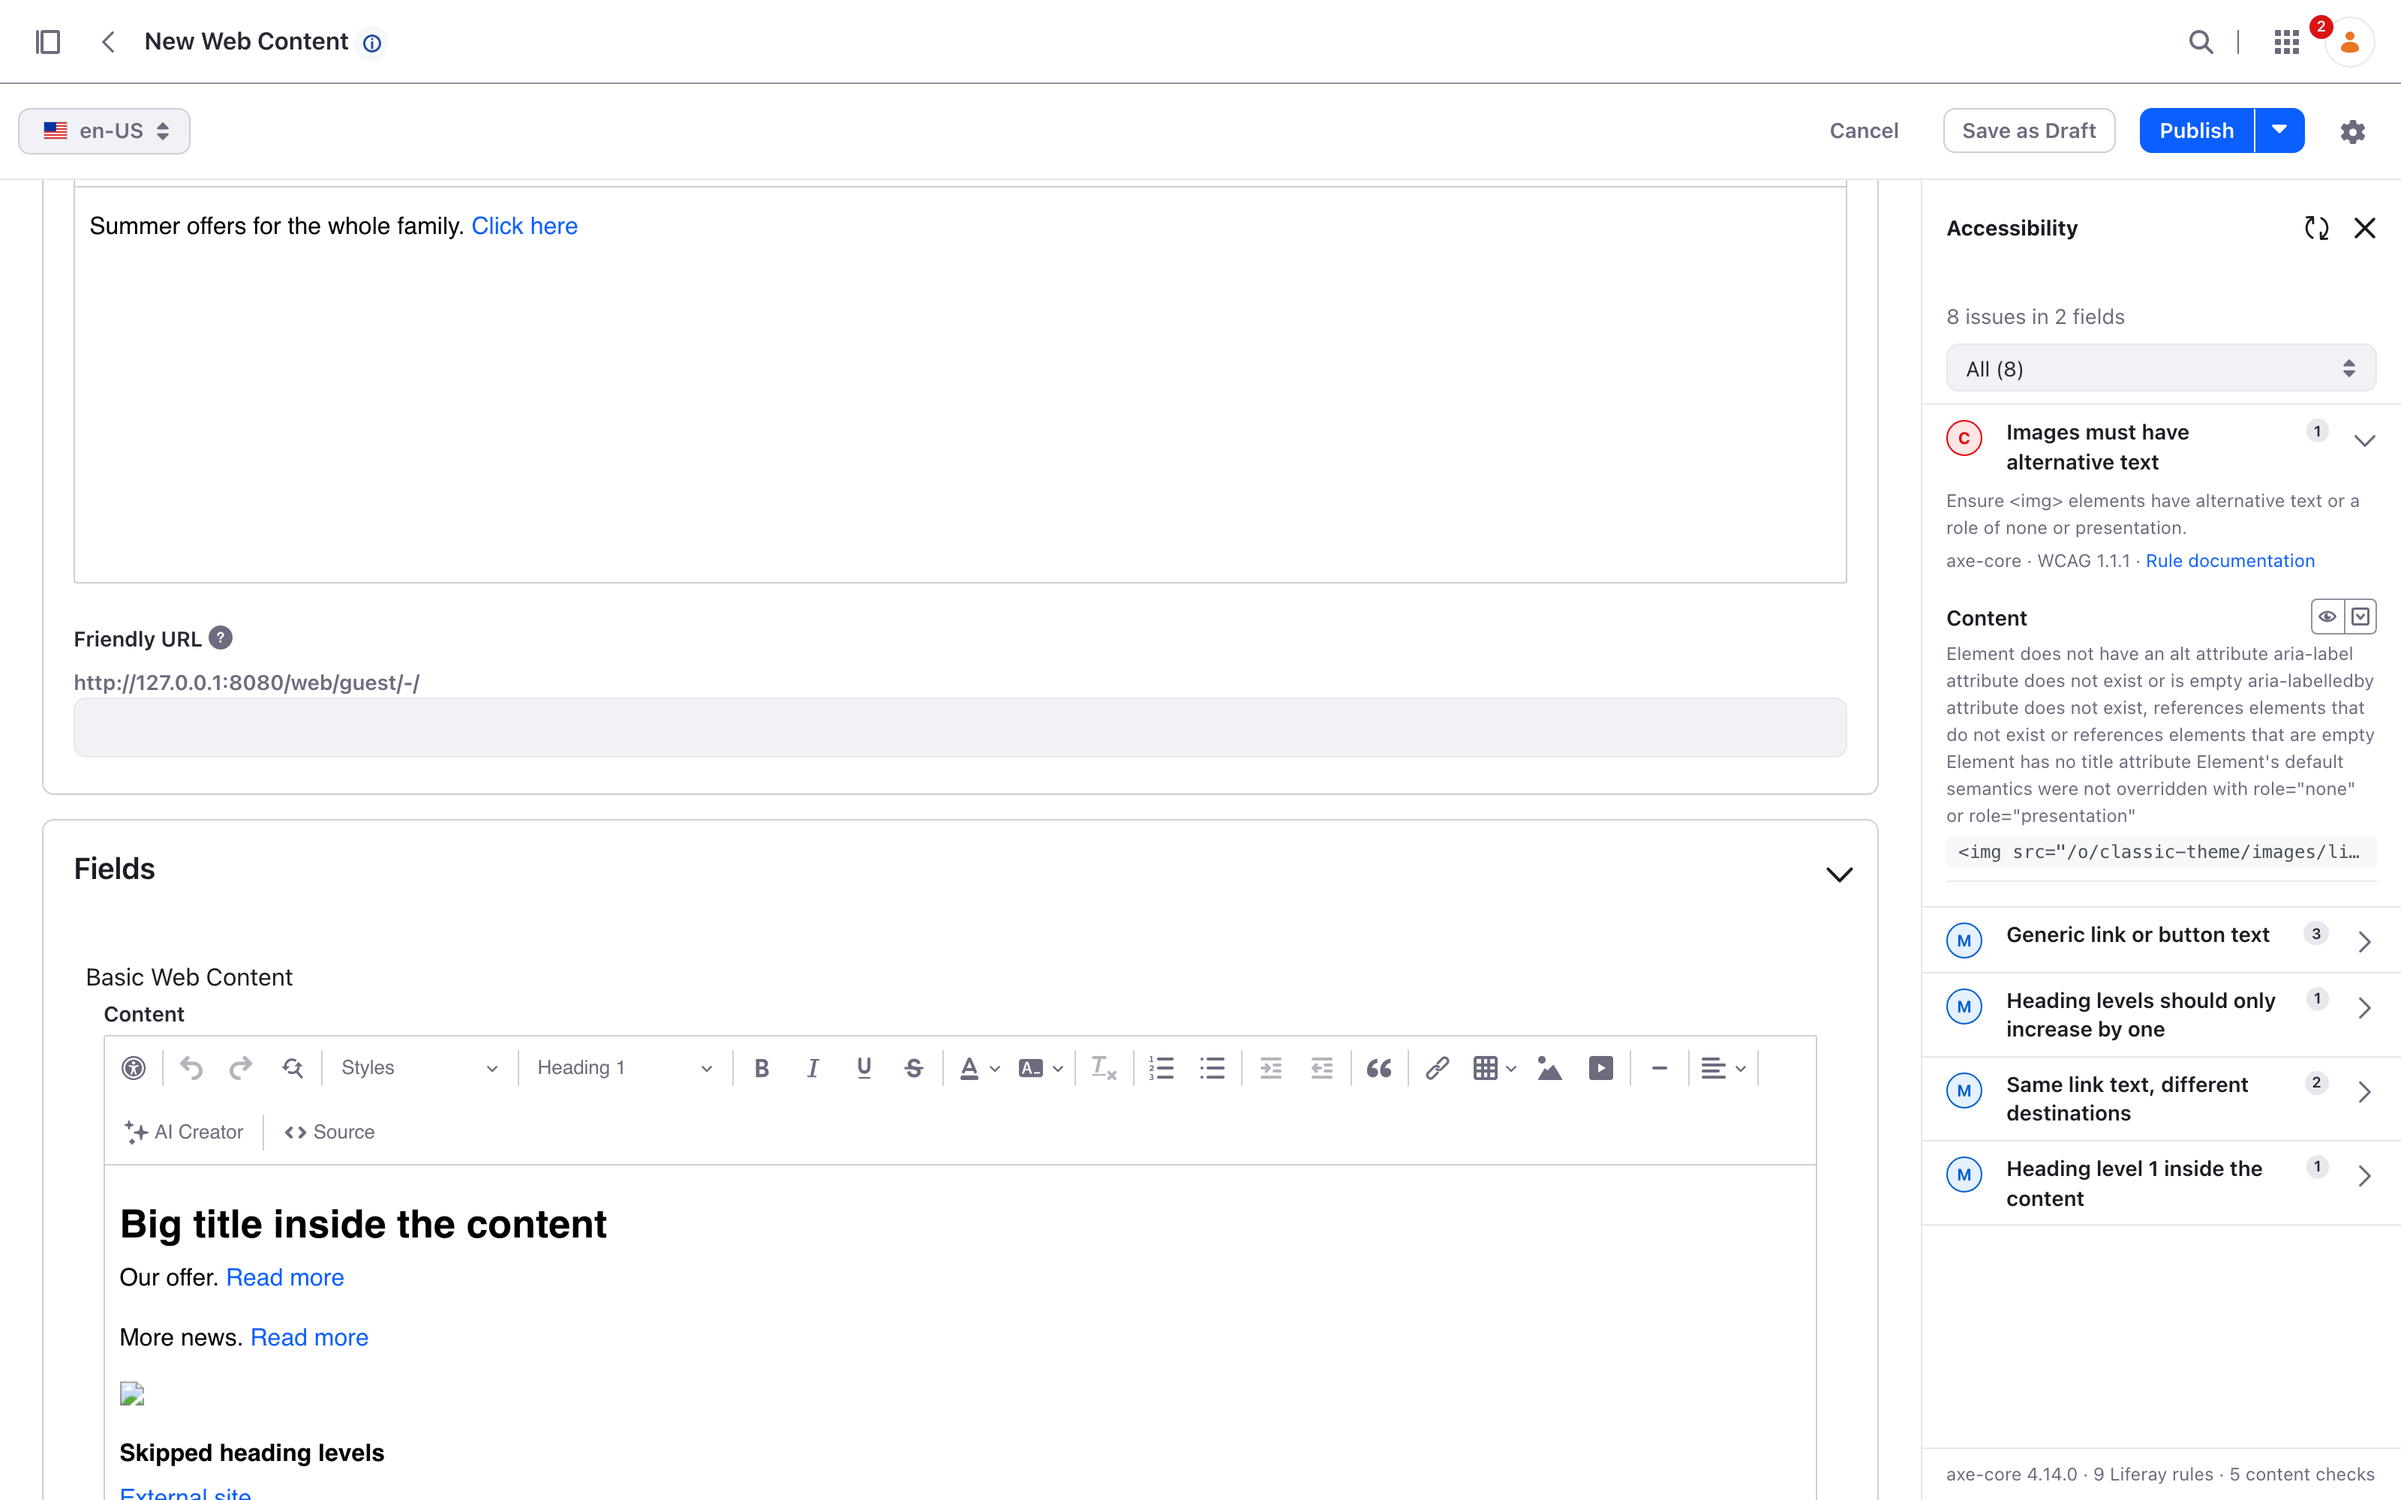
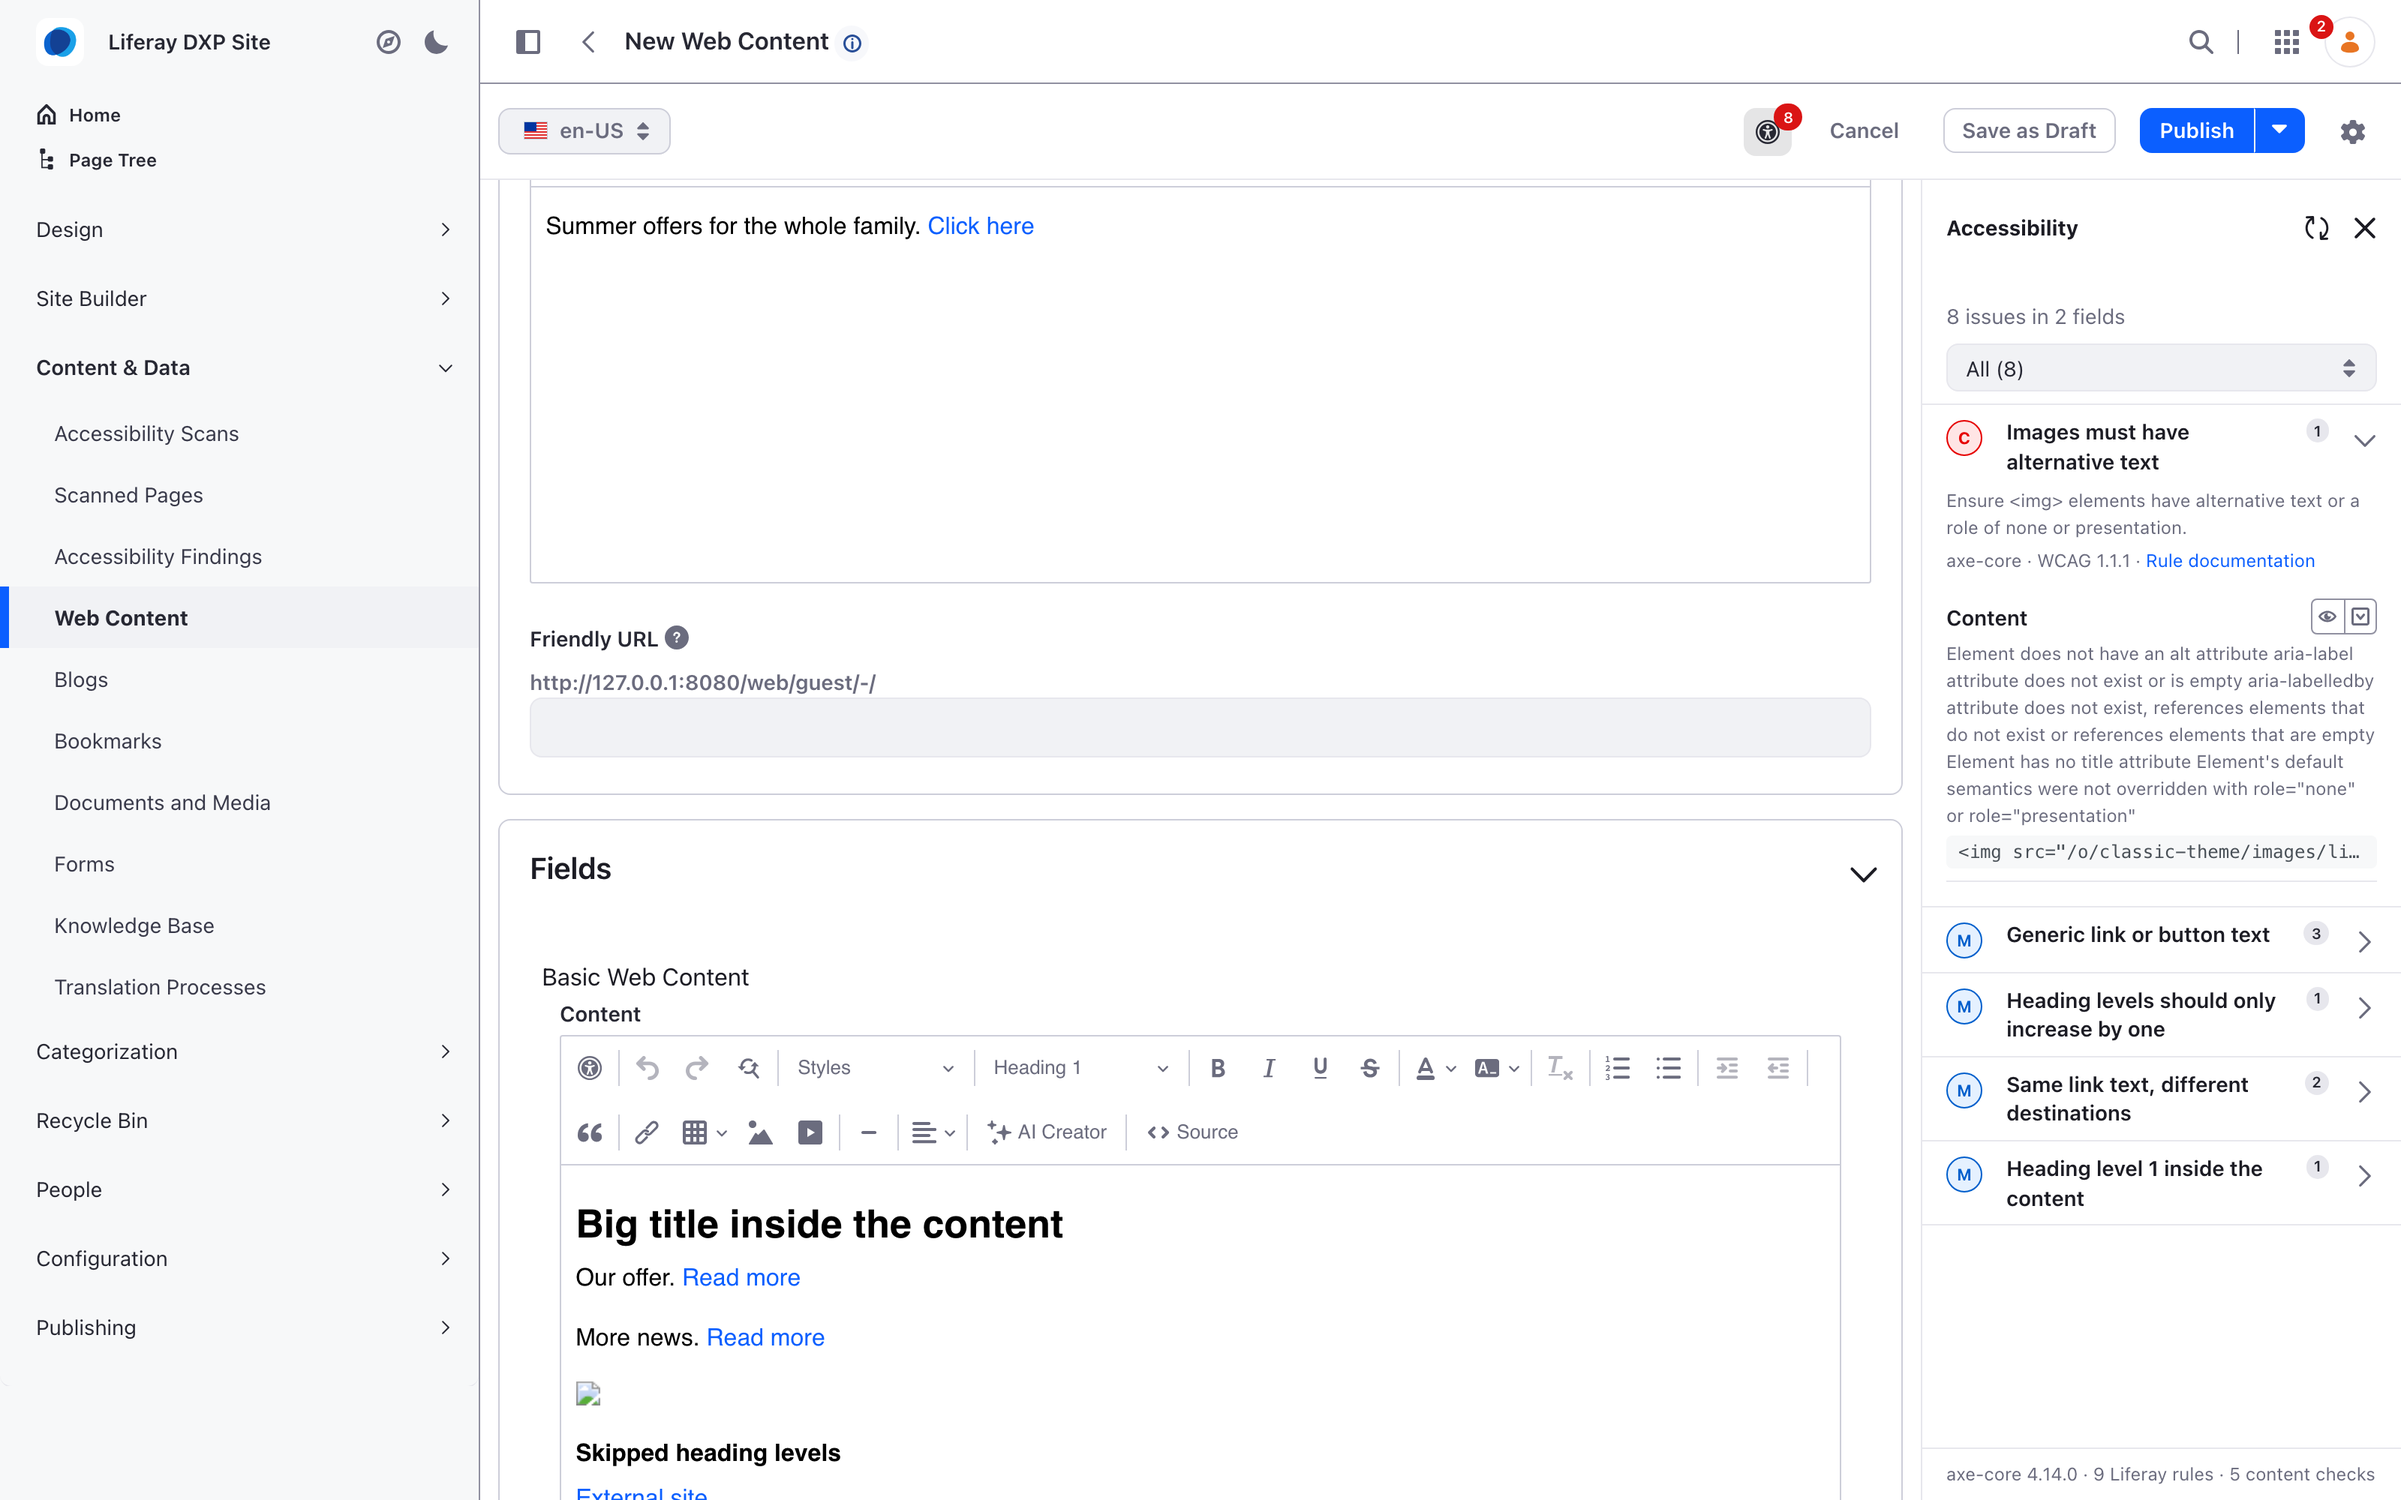
Dock the toggle in content editor toolbars, make room for the drawer or take the editor sidebar's place, and focus the drawer title on open

diff --git a/client-extensions/accessibility-scanner-editor/src/panel.js b/client-extensions/accessibility-scanner-editor/src/panel.js
@@ -269,6 +269,7 @@ export class ScannerPanel {
 		}
 		if (this.mode === 'content') {
 			this.host.classList.add('lfr-accessibility-scanner--content');
+			this.dockToolbarButton();
 			this.hookPublish();
 		}
 	}
@@ -333,20 +334,40 @@ export class ScannerPanel {
 	 * The floating button stays as a fallback when the toolbar is not there.
 	 */
 	dockToolbarButton() {
+		// Where the toggle goes: next to the viewport buttons in the page
+		// editor, or in the toolbar of each content editor.
+		const locate = () => {
+			if (this.mode === 'content') {
+				return this.adapter?.dock?.() || null;
+			}
+			const list = document.querySelector('.page-editor__toolbar .middle.navbar-nav');
+			const viewportItem = list?.querySelector('.nav-item');
+			return viewportItem ? {afterElement: viewportItem, itemClass: 'nav-item', list} : null;
+		};
+		const buttonClass = this.mode === 'content' ? 'btn btn-monospaced btn-sm btn-outline-borderless btn-outline-secondary' : 'btn btn-monospaced btn-sm btn-secondary ml-3';
+
 		const insert = () => {
 			if (this.toolbarButton?.isConnected) {
 				return true;
 			}
-			const nav = document.querySelector('.page-editor__toolbar .middle.navbar-nav');
-			const viewportItem = nav?.querySelector('.nav-item');
-			if (!nav || !viewportItem) {
+			const target = locate();
+			if (!target?.list) {
 				return false;
 			}
 			const item = document.createElement('li');
-			item.className = 'nav-item lfr-accessibility-scanner__toolbar-item';
+			item.className = `${target.itemClass} cadmin lfr-accessibility-scanner__toolbar-item`;
 			item.setAttribute('role', 'presentation');
-			item.innerHTML = `<button aria-controls="${this.panelId}" aria-expanded="${this.open}" aria-pressed="${this.open}" class="btn btn-monospaced btn-sm btn-secondary ml-3 lfr-accessibility-scanner__toolbar-button ${this.open ? 'active' : ''}" title="${escapeHtml(t('toggle'))}" type="button">${icon('accessibility')}<span class="sr-only">${escapeHtml(t('toggle'))}</span><span class="badge badge-danger badge-pill" data-count hidden></span></button>`;
-			viewportItem.insertAdjacentElement('afterend', item);
+			item.innerHTML = `<button aria-controls="${this.panelId}" aria-expanded="${this.open}" aria-pressed="${this.open}" class="${buttonClass} lfr-accessibility-scanner__toolbar-button ${this.open ? 'active' : ''}" title="${escapeHtml(t('toggle'))}" type="button">${icon('accessibility')}<span class="sr-only">${escapeHtml(t('toggle'))}</span><span class="badge badge-danger badge-pill" data-count hidden></span></button>`;
+			const after = target.afterElement || (target.after && target.list.querySelector(`:scope > ${target.after}`));
+			if (after) {
+				after.insertAdjacentElement('afterend', item);
+			}
+			else if (target.prepend) {
+				target.list.prepend(item);
+			}
+			else {
+				target.list.appendChild(item);
+			}
 			this.toolbarButton = item.querySelector('button');
 			this.toolbarButton.addEventListener('click', () => this.toggle());
 			this.host.classList.add('lfr-accessibility-scanner--docked');
@@ -358,6 +379,20 @@ export class ScannerPanel {
 		const toolbar = document.querySelector('.page-editor__toolbar') || document.body;
 		this.toolbarObserver = new MutationObserver(() => insert());
 		this.toolbarObserver.observe(toolbar, {childList: true, subtree: true});
+	}
+
+	/**
+	 * Content editors have no slot for a sidebar, so while the drawer is open
+	 * the page leaves room for it instead of being covered.
+	 */
+	pushPage(open) {
+		// Editors with their own sidebar (Web Content) get the drawer on top of it instead.
+		if (this.mode !== 'content' || (open && this.adapter?.sidebar?.()?.offsetWidth)) {
+			return;
+		}
+		const root = document.documentElement;
+		root.classList.toggle('lfr-accessibility-scanner-pushed', open);
+		root.style.setProperty('--lfr-accessibility-push', open ? '320px' : '0px');
 	}
 
 	/** Mirrors open state and the counter on every toggle (toolbar and floating). */
@@ -387,9 +422,9 @@ export class ScannerPanel {
 	 * nothing else. Outside the editor it hangs below the control menu.
 	 */
 	updateTop() {
-		const sidebar = document.querySelector(
-			'.page-editor__item-configuration-sidebar, [aria-label="Configuration Panel"]'
-		);
+		const sidebar =
+			this.adapter?.sidebar?.() ||
+			document.querySelector('.page-editor__item-configuration-sidebar, [aria-label="Configuration Panel"]');
 		const bar =
 			this.adapter?.toolbar?.() ||
 			document.querySelector('.page-editor__toolbar') ||
@@ -410,6 +445,15 @@ export class ScannerPanel {
 				this.sidebarObserver.observe(sidebar);
 			}
 		}
+		// When the page made room for the drawer and the header shrank with it,
+		// the drawer runs to the top so no blank corner is left above it.
+		if (
+			document.documentElement.classList.contains('lfr-accessibility-scanner-pushed') &&
+			bar &&
+			bar.getBoundingClientRect().right < window.innerWidth - 2
+		) {
+			top = 0;
+		}
 		this.host.style.setProperty('--lfr-accessibility-top', `${Math.round(Math.max(0, top))}px`);
 		this.host.style.setProperty('--lfr-accessibility-width', `${Math.round(width)}px`);
 	}
@@ -417,6 +461,7 @@ export class ScannerPanel {
 	/** Removes everything the panel added to the page (SPA navigation away). */
 	destroy() {
 		this.siteAbort?.abort();
+		this.pushPage(false);
 		this.publishHandle?.detach?.();
 		this.toolbarObserver?.disconnect();
 		this.sidebarObserver?.disconnect();
@@ -430,6 +475,7 @@ export class ScannerPanel {
 
 	toggle(force) {
 		this.open = typeof force === 'boolean' ? force : !this.open;
+		this.pushPage(this.open);
 		this.updateTop();
 		this.panel.hidden = !this.open;
 		this.syncToggles();
@@ -443,7 +489,11 @@ export class ScannerPanel {
 			else if (!this.reports[this.source]) {
 				this.scan();
 			}
-			this.panel.querySelector('[data-action="close"]').focus();
+			// Focus the drawer title: announced by screen readers, and it does
+			// not pop the Close tooltip the way focusing the button did.
+			const title = this.panel.querySelector(`#${this.panelId}-title`);
+			title.setAttribute('tabindex', '-1');
+			title.focus({preventScroll: true});
 		}
 		else {
 			this.clearHighlight();

diff --git a/client-extensions/accessibility-scanner-editor/src/content-editors.js b/client-extensions/accessibility-scanner-editor/src/content-editors.js
@@ -138,6 +138,8 @@ const ADAPTERS = [
 		settingKey: 'disableCMSEditor',
 		structuredFindings: () => [],
 		toolbar: () => document.querySelector('.content-editor__toolbar'),
+		// The toggle sits in the editor toolbar, right after the title.
+		dock: () => ({after: '.tbar-item-expand', itemClass: 'tbar-item', list: document.querySelector('.content-editor__toolbar .tbar-nav')}),
 	},
 	{
 		detect: () => document.querySelector('form.edit-article-form'),
@@ -148,6 +150,9 @@ const ADAPTERS = [
 		settingKey: 'disableWebContentEditor',
 		structuredFindings: journalImageFindings,
 		toolbar: () => document.querySelector('nav.tbar-article'),
+		// The editor has its own Properties sidebar: the drawer takes its place.
+		sidebar: () => document.querySelector('.contextual-sidebar.edit-article-sidebar'),
+		dock: () => ({after: '.tbar-item-expand', itemClass: 'tbar-item', list: document.querySelector('nav.tbar-article .tbar-nav')}),
 	},
 	{
 		detect: () => {
@@ -161,6 +166,8 @@ const ADAPTERS = [
 		settingKey: 'disableBlogsEditor',
 		structuredFindings: () => [],
 		toolbar: () => null,
+		// Blogs has no editor toolbar: the toggle joins the control menu tools.
+		dock: () => ({itemClass: 'control-menu-nav-item', list: document.querySelector('.user-control-group .control-menu-nav'), prepend: true}),
 	},
 ];
 

diff --git a/client-extensions/accessibility-scanner-editor/src/styles.js b/client-extensions/accessibility-scanner-editor/src/styles.js
@@ -66,6 +66,10 @@ html:not(#__):not(#___) .cadmin .lfr-accessibility-scanner__fab .badge {
 	top: -0.5rem;
 	white-space: nowrap;
 }
+/* Content editors: the page makes room for the open drawer. */
+html.lfr-accessibility-scanner-pushed > body {
+	padding-right: var(--lfr-accessibility-push, 0px) !important;
+}
 html:not(#__):not(#___) .cadmin .lfr-accessibility-scanner__panel {
 	background-color: var(--cadmin-white, #fff);
 	border-left: 1px solid var(--cadmin-gray-300, #e7e7ed);
